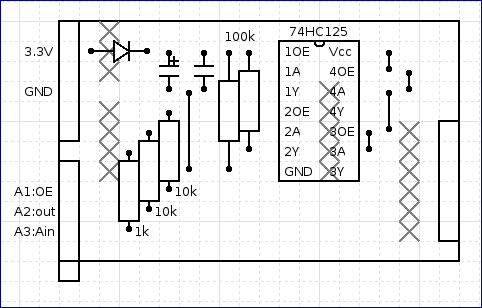
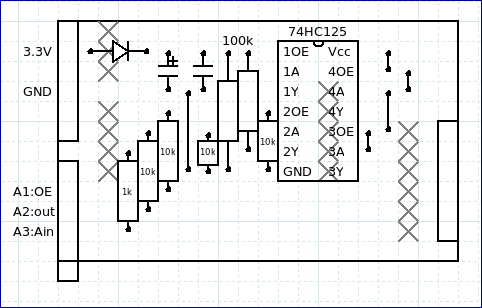
Update circuit docs

diff --git a/circuit/README.md b/circuit/README.md
@@ -1,18 +1,35 @@
 
 # Circuit
 
-This project is provided with absolutely no warranty! The author is not responsible for any damage to your property that may result from following these instructions.
-
-The circuit is designed to drop the voltage below 3V for the connection to the toy. Check this before using it! Also, be sure the polarity is correct. Mistakes here are the most likely to break something.
+*This project is provided with absolutely no warranty! The author is not responsible for any damage to your property that may result from following these instructions.*
 
 The connection to the toy has 2 lines, signal and GND. On 2-prong devices, the prong nearest the screen is for the signal ("Ain" on the circuit diagram) and the back prong is GND. On 3-prong devices, the central prong is for the signal and the outer two prongs are GND.
 
-The diode should be the common type which drops about 0.6V at small currents. It creates a virtual power rail at about 2.7V. The capacitors stabilise the voltage, and the 100k resistor to ground also helps with this by ensuring there is always a small current through the diode.
+Any suitable circuit should drop the voltage below 3V for the connection to the toy. Check this before using it! Also, be sure the polarity is correct. Mistakes here are the most likely to break something.
 
-The 74HC125 tristate buffer is wired to drive high or low through the 1K resistor, and to give a weak pull-up through 100K when output is not enabled. The 10K resistors on the inputs of the tristate buffer allow these inputs to be driven safely by the 5V Arduino outputs while the buffer's power supply is 2.7V. Unused inputs should not be left floating: safest to tie them to the buffer's Vcc, as this disables the unused outputs.
+This project was originally designed for Arduino Uno, but the (smaller and cheaper) CH340 Nano has since become popular.
 
-The circuit works fine on breadboard. Diagrams for a stripboard "shield" are also provided.
+## A-Com
 
-In the breadboard photo, the jumper wires from the Arduino in the top left go 3.3V (red), GND (black), out (orange), notOE (grey), Ain (green). The connector for the toy was clipped onto the two gold hoops at the far right; it could equally well be plugged into the breadboard over there if it had suitable wires.
+It is possible to achieve results almost as good as a D-Com with just two resistors. As such, the D-Com design is largely obsolete. See https://www.alphahub.site/guide .
 
-The project was tested on Arduino Uno, but will probably work on any similar ones.
+## D-Com
+
+The original idea uses a 74HC125 tristate buffer, wired to drive high or low through a 1K resistor, and to give a weak pull-up through 100K when output is not enabled. This resembles the behaviour of the toys.
+
+The diode should be the common type which drops about 0.6V at small currents. It creates a virtual power rail at about 2.7V. The capacitors stabilise the voltage, and the 100K resistor to ground also helps with this by ensuring there is always a small current through the diode.
+
+Voltage dividers on the inputs of the tristate buffer allow these inputs to be driven safely by the 5V Arduino outputs while the buffer's power supply is 2.7V. Unused inputs should not be left floating: safest to tie them to the buffer's Vcc, as this disables the unused outputs.
+
+The circuit works fine on breadboard. Diagrams for a stripboard Uno shield are also provided, but clearly a different layout is needed for the Nano.
+
+## D-Com issue
+
+The original design lacked the 10K pull-downs on the tristate buffer's inputs. Some 74HC125 chips are built to handle this, including NXP and Philips brands. However, some other brands leak current to Vcc, resulting in a higher voltage at the output. Fortunately, the capacitors largely keep the voltage down when the Arduino is signalling, so most of the overvoltage at the toy comes through the 100K pull-up. Also, the diode protects the Arduino's 3.3V pin. Codes for the Xros Mini drive the line high for longer periods, so these are more likely to be harmful.
+
+To fix a D-Com with the issue, there are three options:
+
+* Add the 10K pull-downs to the inputs of the 74HC125.
+* Replace the 74HC125 with one which does not require these pull-downs.
+* Worst option but easiest on a PCB: Replace the 100k pull-down on Vcc with 4K7, to sink the excess current from Vcc.
+
